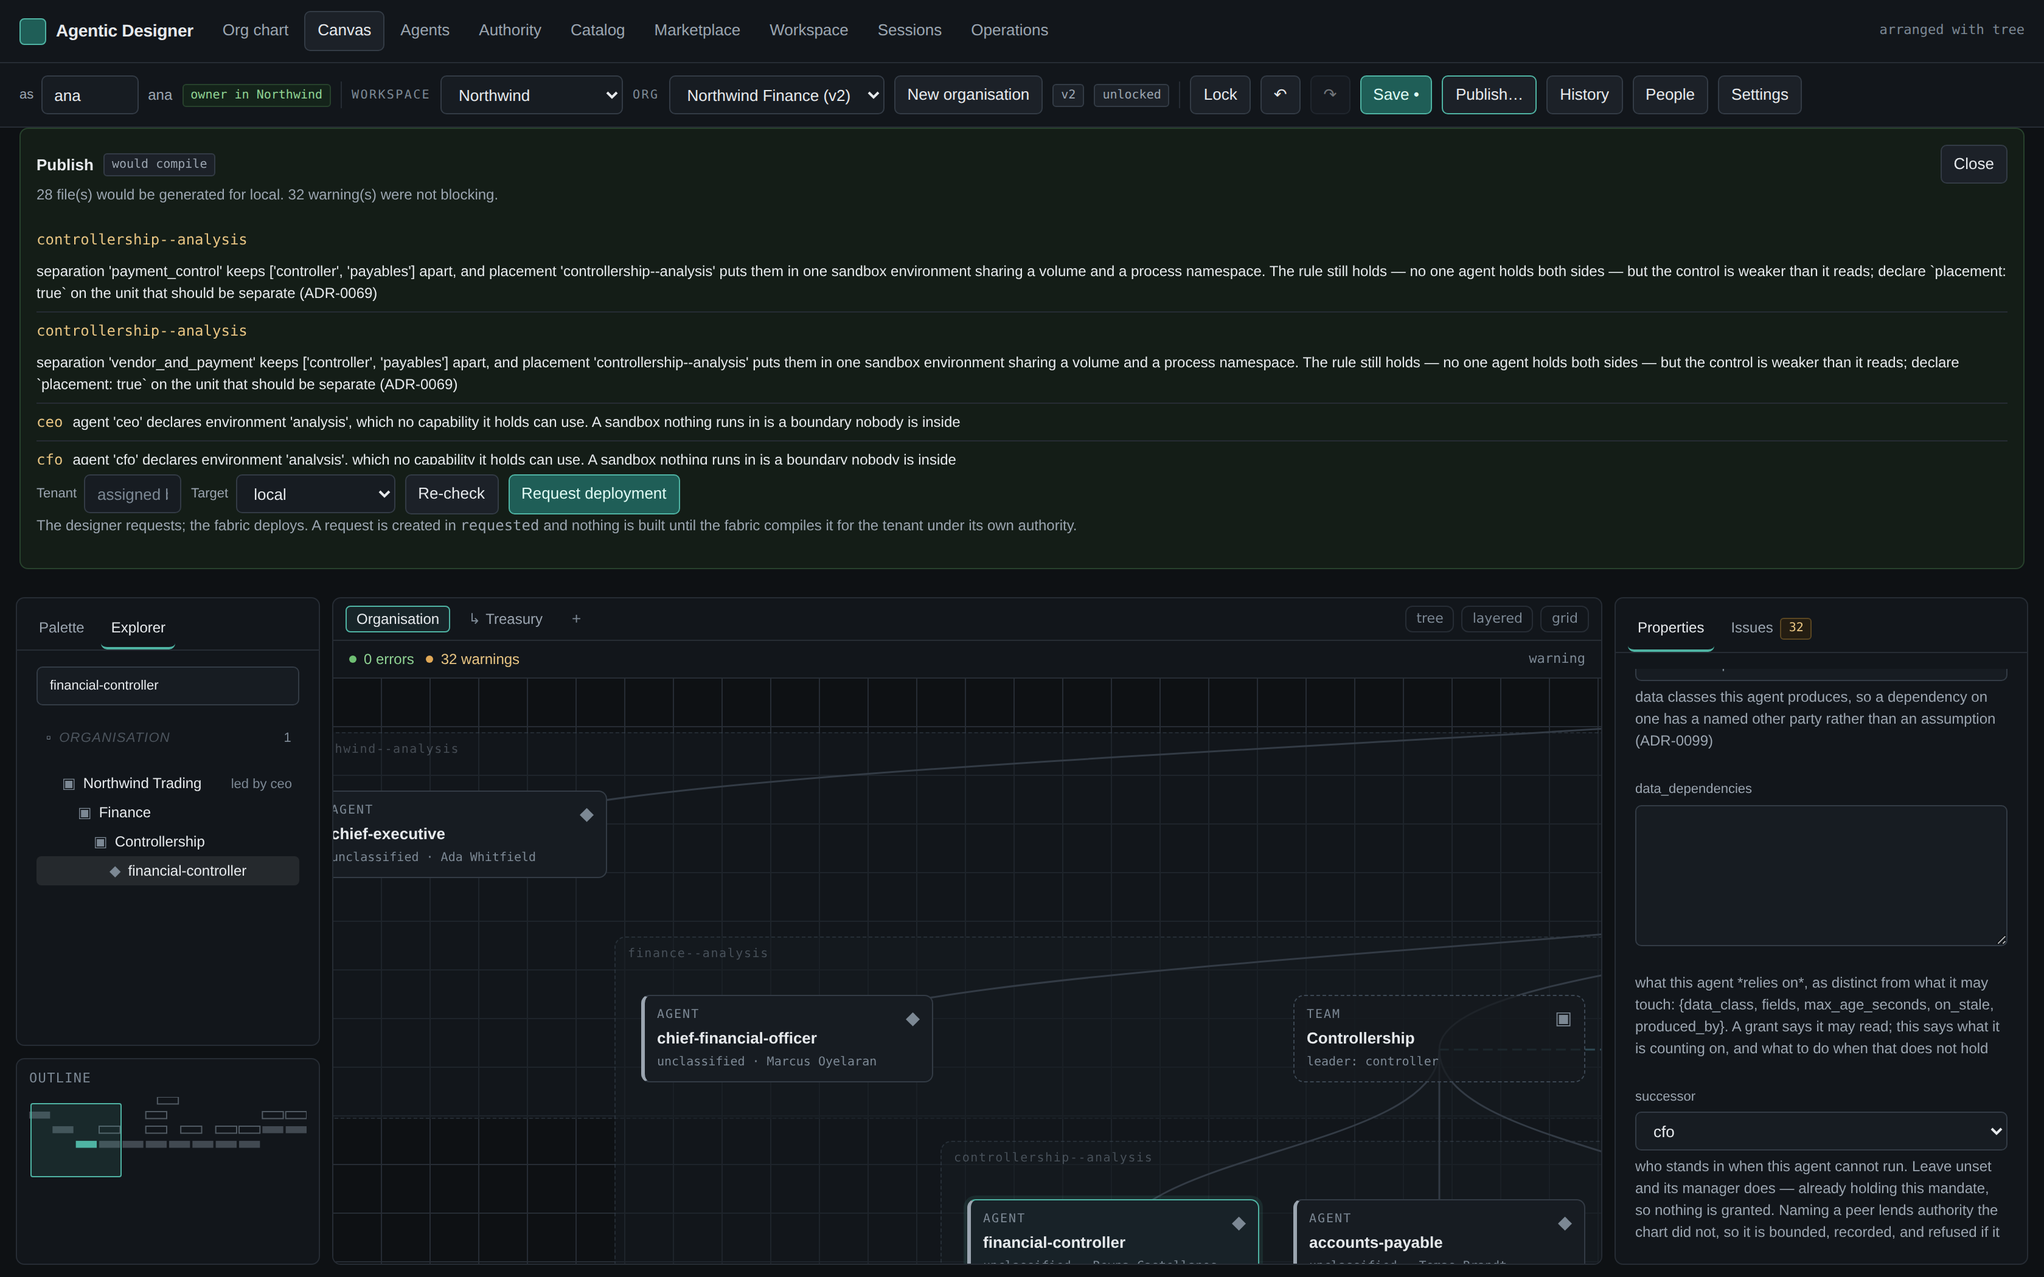
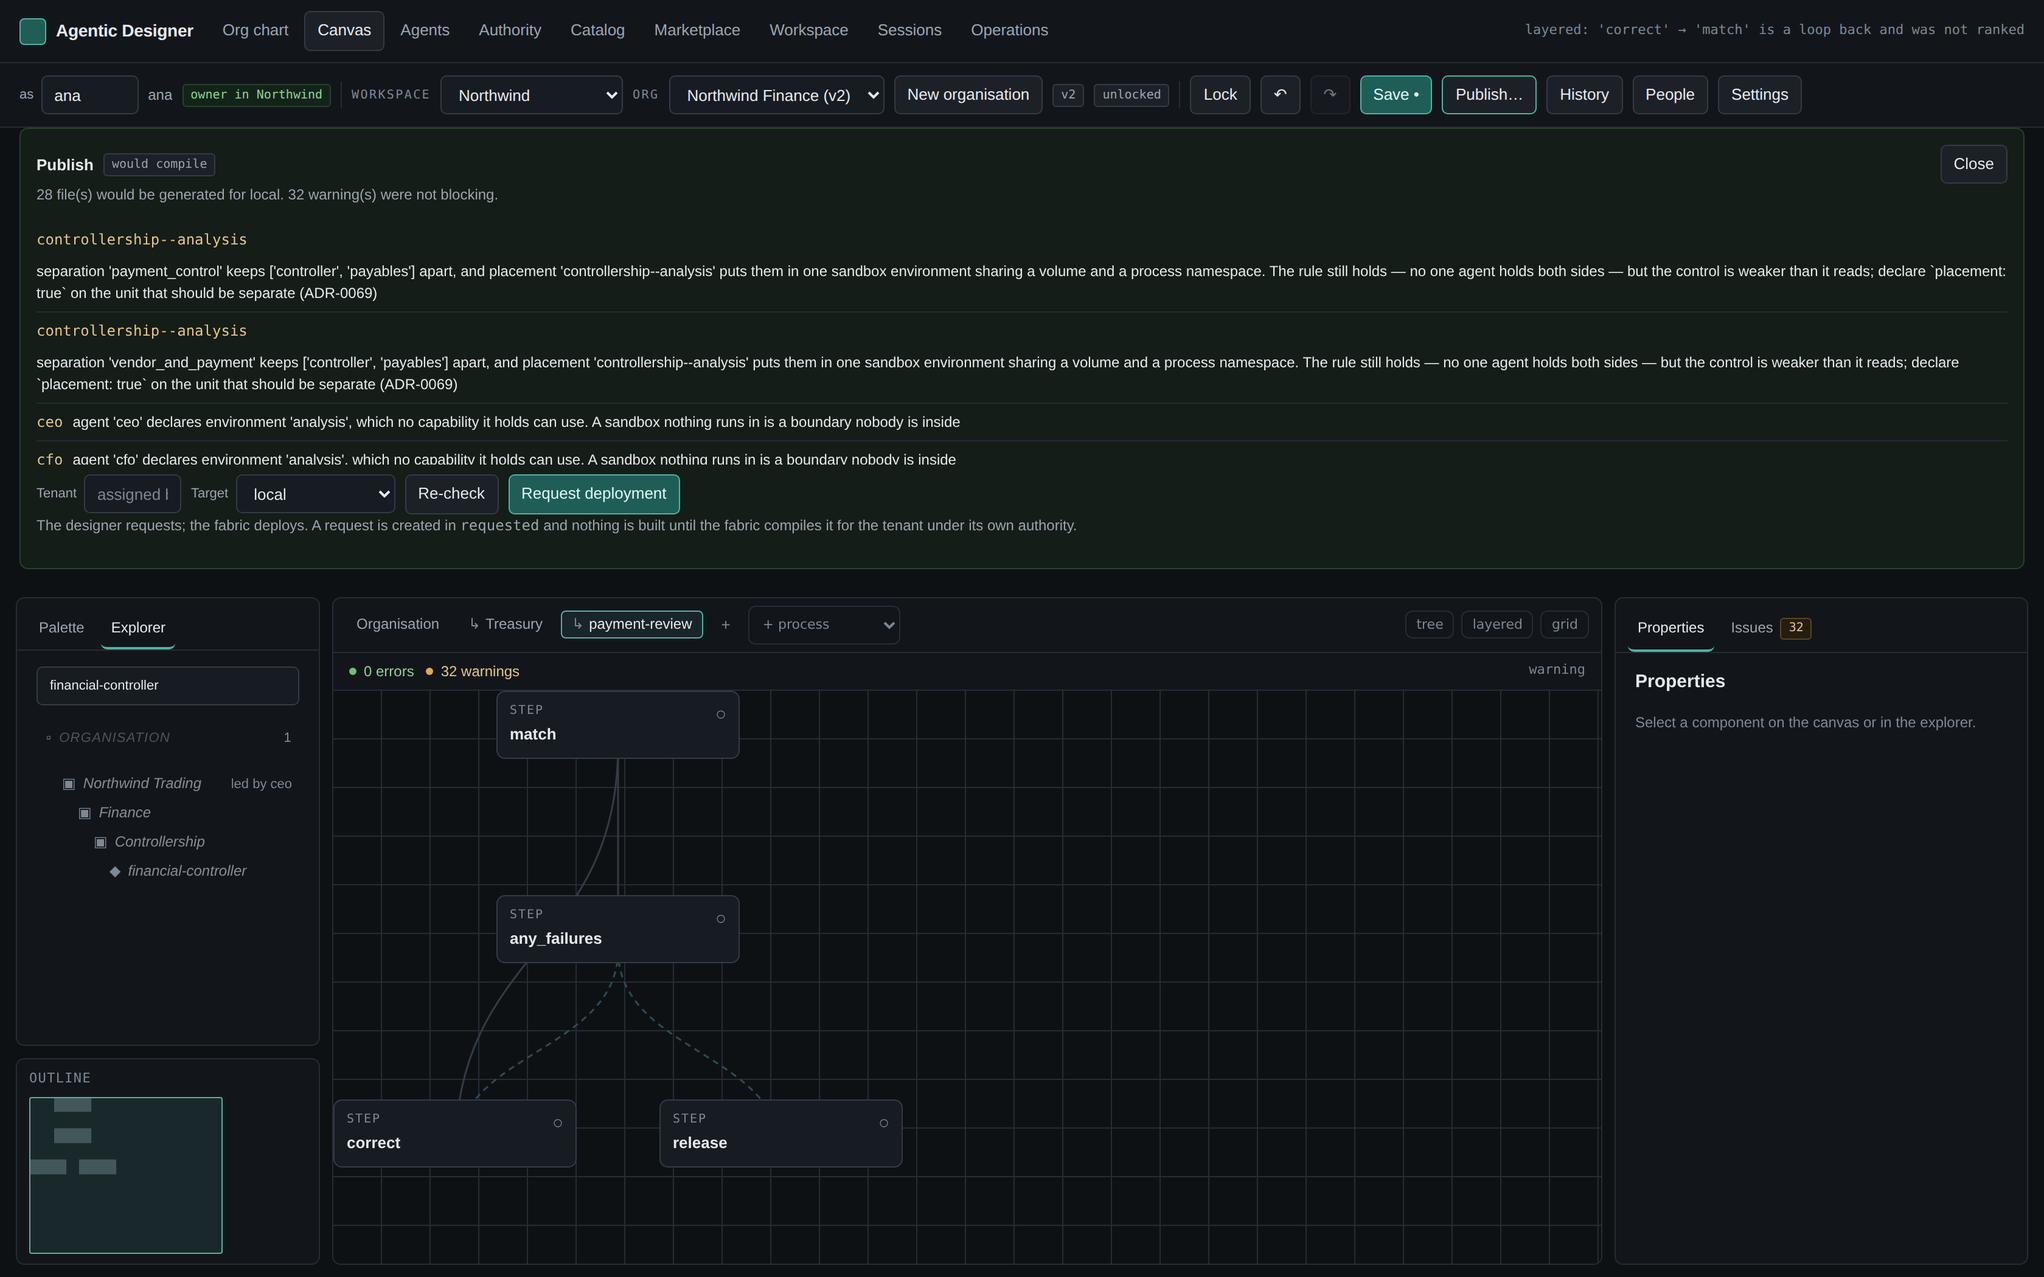
Draw a process on its own canvas, and render the views nobody had ever rendered
A process canvas now exists rather than just being modelled. A workflow's
steps are nodes, its edges are derived from the spec and never stored on the
diagram, a branch's arms are drawn dashed as the choice they are, and the loop
back is drawn as a loop. It is laid out by `layered`, and the status line says
what that did: "'correct' → 'match' is a loop back and was not ranked". The
"+ process" control makes one per workflow.

The other half of the question: had the rest of the designer been tested? The
API beneath every view has real coverage, and the bundle is checked
structurally -- which routes it calls, which model each view reads. But both
browser scripts only ever visited the canvas. Catalog, Marketplace, Workspace,
Sessions, Operations and Agents had never been rendered by anything. The first
render of this UI found four defects the whole suite had not; views never
rendered at all are exactly where that class hides.

Rendering them found four more.

A Python-style implicit string concatenation inside a JS object literal -- valid
Python, a syntax error in JavaScript. It took the whole designer down and
surfaced as a thirty-second browser timeout, which is an expensive way to learn
about a typo. The suite had plenty of assertions over these files as *text* and
nothing that parsed them; `node --check` over the bundle is now a test.

Two views whose ids named each other's labels: data-view="catalog" was
[…]

diff --git a/web/canvas.js b/web/canvas.js
@@ -194,6 +194,17 @@ function newDiagramId() {
   return `dia_${n}`;
 }
 
+/* A selection belongs to the diagram it was made on. Carrying it across meant
+   the Properties panel described a component that is not on the canvas in
+   front of you — which reads as "this is what you are looking at" and is not. */
+function clearSelectionOffDiagram() {
+  const open = diagram();
+  if (!canvas.selected) return;
+  if (open && open.nodes && open.nodes[canvas.selected.id]) return;
+  canvas.selected = null;
+  renderInspector();
+}
+
 function openDiagram(id) {
   const layout = canvas.record?.layout;
   if (!layout?.diagrams?.[id]) return;
@@ -211,6 +222,46 @@ function openDiagram(id) {
    This is the drill-down a tree view gives you and a single canvas cannot.
    The nodes are laid out rather than dropped one at a time, because a
    diagram you have to rebuild by hand is one nobody makes. */
+/* A process canvas: one workflow's steps, laid out as a flow.
+
+   The steps become nodes and the workflow's own edges are derived, so this
+   adds a picture without adding a fact — which is the split the diagram model
+   is built on. */
+function addProcessDiagram(workflowId) {
+  const layout = canvas.record?.layout;
+  const workflow = (spec()?.workflows || []).find((w) => w.id === workflowId);
+  if (!layout || !workflow) {
+    setStatus(`'${workflowId}' is not a workflow in this design`);
+    return null;
+  }
+  const id = newDiagramId();
+  const nodes = {};
+  (workflow.graph?.nodes || []).forEach((step, index) => {
+    if (!step.id) return;
+    nodes[step.id] = {
+      id: step.id, kind: "step", x: 60, y: 60 + index * 150,
+      width: 200, height: 80, collapsed: false, note: "",
+    };
+  });
+  layout.diagrams[id] = {
+    id, name: workflow.name || workflow.id, kind: "process",
+    root: workflow.id, nodes,
+    viewport: { x: 0, y: 0, zoom: 1 },
+  };
+  layout.active = id;
+  /* Same as opening one: the selection belonged to the diagram it was made
+     on, and carrying it here would describe a component that is not on this
+     canvas. */
+  clearSelectionOffDiagram();
+  markDirty(`added a process canvas for ${workflow.id}`);
+  renderCanvas();
+  /* Laid out by the product's own algorithm rather than the stack above:
+     a flow wants ranks, and the stack is only somewhere for the nodes to be
+     until the layout runs. */
+  arrangeDiagram("layered");
+  return id;
+}
+
 function addDiagram(root = "", name = "") {
   const layout = canvas.record?.layout;
   if (!layout) return null;
@@ -300,6 +351,21 @@ function renderDiagramBar() {
       disabled: readOnly ? "" : null,
       onclick: () => addDiagram(""),
     }, "+"),
+    /* A process gets its own canvas, because a workflow's graph is a
+       different thing from an organisation's containment and drawing them on
+       one canvas produces a picture nobody can predict (ADR-0100). */
+    ...((spec()?.workflows || []).length && !readOnly ? [(() => {
+      const pick = el("select", { class: "dia-add-process",
+                                  title: "a canvas for one workflow's process" },
+        el("option", { value: "" }, "+ process"),
+        ...(spec().workflows || []).map((w) =>
+          el("option", { value: w.id }, w.name || w.id)));
+      pick.addEventListener("change", () => {
+        if (pick.value) addProcessDiagram(pick.value);
+        pick.value = "";
+      });
+      return pick;
+    })()] : []),
     /* Arrange. The layout runs on the server, where it is a function from a
        graph to coordinates and can be asserted about; a layout that ran only
        here is the one part of this platform nothing would check (ADR-0100).
@@ -382,14 +448,18 @@ function processEdges(workflowId) {
   const graph = workflow?.graph || {};
   const edges = (graph.edges || [])
     .filter((e) => e.from && e.to && e.to !== "END")
-    .map((e) => ({ source: e.from, target: e.to }));
+    .map((e) => ({ source: e.from, target: e.to, kind: "flow" }));
+  /* A branch's arms are ways out too, and drawing them differently from a
+     plain edge is the point: one of them is taken, not all of them. */
   for (const node of graph.nodes || []) {
     if (node.kind !== "branch") continue;
     for (const c of node.cases || []) {
-      if (c.to && c.to !== "END") edges.push({ source: node.id, target: c.to });
+      if (c.to && c.to !== "END") {
+        edges.push({ source: node.id, target: c.to, kind: "branch_case" });
+      }
     }
     if (node.default && node.default !== "END") {
-      edges.push({ source: node.id, target: node.default });
+      edges.push({ source: node.id, target: node.default, kind: "branch_case" });
     }
   }
   return edges;
@@ -403,6 +473,14 @@ function layoutNodes() {
 function findComponent(kind, id) {
   const s = spec();
   if (!s) return null;
+  /* A step belongs to the workflow the open process canvas draws, not to the
+     organisation. It is looked up there so the inspector edits the step
+     itself rather than showing an empty form (ADR-0100). */
+  if (kind === "step") {
+    const open = diagram();
+    const workflow = (s.workflows || []).find((w) => w.id === open?.root);
+    return (workflow?.graph?.nodes || []).find((n) => n.id === id) || null;
+  }
   if (kind === "team") return allTeams().find((t) => t.id === id) || null;
   if (kind === "agent") return allAgents().find((a) => a.agent.id === id)?.agent || null;
   if (kind === "subagent") {
@@ -591,7 +669,29 @@ function paletteKinds() {
   return out;
 }
 
+/* A step is part of a workflow, not a component of the design, so it is not in
+   the palette — you do not drag one onto an organisation. It still needs
+   fields, or selecting one on a process canvas would open an empty form. */
+const STEP_SPEC = {
+  kind: "step", label: "Step", icon: "\u25cb",
+  fields: [
+    { name: "id", type: "string", required: true },
+    { name: "kind", type: "enum",
+      options: ["tool", "agent", "workflow", "branch", "transform", "human"],
+      help: "what this step does. A branch is the only one that may have "
+            + "several ways out, because it is the only one that chooses" },
+    { name: "tool", type: "string" },
+    { name: "agent", type: "string" },
+    { name: "workflow", type: "string" },
+    { name: "expr", type: "string",
+      help: "for a transform: an expression over the workflow's state" },
+    { name: "output", type: "string",
+      help: "the state key this step's result is written to" },
+  ],
+};
+
 function kindSpec(kind) {
+  if (kind === "step") return STEP_SPEC;
   return paletteKinds().find((k) => k.kind === kind)
     || { kind, label: kind, fields: [] };
 }
@@ -1222,6 +1322,8 @@ function renderEdges() {
 
 const EDGE_STYLES = {
   member_of: { stroke: "--edge-report" },
+  flow: { stroke: "--edge-report" },
+  branch_case: { stroke: "--edge-peer", dash: "5 4" },
   reports_to: { stroke: "--edge-report" },
   mission_peer: { stroke: "--edge-peer", dash: "5 4" },
   peer: { stroke: "--edge-peer", dash: "5 4" },
@@ -1364,6 +1466,16 @@ function derivedEdges() {
   /* Edges come from the spec, not from the layout: the picture always matches
      what would compile. */
   const out = [];
+  /* A process canvas draws one workflow's graph, and its edges are that
+     workflow's own — read here, never stored on the diagram, which is the one
+     rule the diagram model has (ADR-0100). */
+  const open = diagram();
+  if (open?.kind === "process") {
+    for (const edge of processEdges(open.root)) {
+      out.push({ source: edge.source, target: edge.target, kind: edge.kind });
+    }
+    return out;
+  }
   walkTeams(spec()?.organization, (team) => {
     (team.members || []).forEach((m) =>
       out.push({ source: team.id, target: m.id, kind: "member_of" }));

diff --git a/web/app.js b/web/app.js
@@ -1485,6 +1485,17 @@ $("#pc-add").addEventListener("click", () => openEntryForm(null));
 /* ---------------------------------------------------------- sessions */
 async function loadSessions() {
   const sessions = await api("/sessions?limit=100");
+  /* An empty list with nothing said reads as broken. This view had none, and
+     rendering it for the first time is what showed that: a column of nothing
+     under a heading tells a reader the page failed, not that no agent has
+     run yet. */
+  if (!sessions.length) {
+    $("#sessions").replaceChildren(
+      el("p", { class: "muted" },
+         "No runs yet. A session appears here the moment an agent of a "
+         + "published design is asked to do something."));
+    return;
+  }
   $("#sessions").replaceChildren(...sessions.map((s) =>
     el("div", {},
       el("span", { class: "grow", onclick: () => loadTrace(s.id), style: "cursor:pointer" },
@@ -1523,6 +1534,11 @@ async function loadOps() {
       el("button", {
         onclick: async () => { await api(`/ops/alerts/${a.id}/ack`, { method: "POST" }); loadOps(); },
       }, "Ack"))) : [el("div", { class: "empty" }, "No open alerts.")]));
+  if (!Object.keys(m.per_agent || {}).length) {
+    $("#peragent").replaceChildren(
+      el("p", { class: "muted" },
+         "Nothing has run. Per-agent usage fills in as sessions complete."));
+  } else
   $("#peragent").replaceChildren(...Object.entries(m.per_agent).map(([id, v]) =>
     el("div", {}, el("span", { class: "grow" }, id),
       el("span", { class: "badge" }, `${v.sessions} sessions`),

diff --git a/web/index.html b/web/index.html
@@ -23,8 +23,8 @@
     <button data-view="canvas">Canvas</button>
     <button data-view="designer">Agents</button>
     <button data-view="authority">Authority</button>
-    <button data-view="platform">Catalog</button>
-    <button data-view="catalog">Marketplace</button>
+    <button data-view="catalog">Catalog</button>
+    <button data-view="marketplace">Marketplace</button>
     <button data-view="workspace">Workspace</button>
     <button data-view="sessions">Sessions</button>
     <button data-view="ops">Operations</button>
@@ -371,7 +371,7 @@
     </div>
   </section>
 
-  <section id="view-platform" class="view">
+  <section id="view-catalog" class="view">
     <div class="panel">
       <h2>Platform catalog</h2>
       <p class="hint">
@@ -406,7 +406,7 @@
   </section>
 
   <!-- CATALOG -->
-  <section id="view-catalog" class="view">
+  <section id="view-marketplace" class="view">
     <div class="panel">
       <h2>Marketplace</h2>
       <div class="toolbar">

diff --git a/web/styles.css b/web/styles.css
@@ -1082,3 +1082,11 @@ textarea.json.invalid { border-color: var(--clay); }
   padding: .3rem .5rem; cursor: pointer;
 }
 .dia-arrange:hover { color: var(--ink); border-color: var(--line-strong); }
+
+/* A process canvas's steps read as steps, not as org boxes (ADR-0100). */
+.dia-add-process {
+  font: 500 11px/1 var(--sans, ui-sans-serif, system-ui);
+  color: var(--ink-dim); background: transparent;
+  border: 1px solid var(--line); border-radius: 6px; padding: .25rem .4rem;
+}
+[data-kind="step"] .n-kind { color: var(--accent); }

diff --git a/tests/test_designer_ui.py b/tests/test_designer_ui.py
@@ -369,3 +369,55 @@ def test_a_person_reference_survives_the_agent_form(tmp_path):
     assert out.returncode == 0, out.stdout + out.stderr
     assert "LOSS" not in out.stdout
     assert "Marcus Oyelaran" in out.stdout, "a reference must resolve to a name"
+
+
+def test_the_browser_bundle_parses():
+    """A syntax error in the bundle breaks every view at once.
+
+    The suite has a lot of structural assertions over these files as *text* —
+    which routes they call, which model they read — and nothing that parsed
+    them. A Python-style implicit string concatenation inside an object
+    literal is valid Python and a syntax error in JavaScript; it took the
+    whole designer down and surfaced as a thirty-second browser timeout in a
+    screenshot run, which is an expensive way to learn about a typo.
+    """
+    import shutil
+    import subprocess
+
+    node = shutil.which("node")
+    if node is None:
+        pytest.skip("no node on this machine to parse the bundle with")
+    for name in ("app.js", "canvas.js", "command/app.js"):
+        path = ROOT / "web" / name
+        result = subprocess.run([node, "--check", str(path)],
+                                capture_output=True, text=True)
+        assert result.returncode == 0, f"{name} does not parse:\n{result.stderr}"
+
+
+def test_a_views_id_matches_the_label_people_read(index_html):
+    """`data-view="catalog"` was labelled Marketplace and `data-view="platform"`
+    was labelled Catalog.
+
+    Two views whose ids named each other's labels. It survived because nothing
+    compared them, and it cost a wrong screenshot within minutes of the first
+    person touching that part of the file. An id is what a test, a script and
+    the next reader address a view by, so it has to say what the view is.
+    """
+    import re
+
+    pairs = re.findall(r'data-view="([a-z-]+)"[^>]*>([^<]+)<', index_html)
+    assert pairs, "no view buttons found"
+    #: Ids that legitimately differ from their label, and why.
+    ALLOWED = {
+        "org": "org chart",
+        "designer": "agents",     # the agent-by-agent form view
+        "ops": "operations",
+    }
+    for view_id, label in pairs:
+        slug = label.strip().lower()
+        if ALLOWED.get(view_id) == slug:
+            continue
+        assert view_id == slug.replace(" ", "-"), (
+            f'view "{view_id}" is labelled "{label.strip()}"; an id that names '
+            "another view's label is a trap"
+        )

diff --git a/scripts/screenshots.py b/scripts/screenshots.py
@@ -282,7 +282,35 @@ async def main():
         print(f"  continuity: successor = {picked or '(its manager)'}")
         await shot(page, "designer-continuity", f"successor={picked}")
 
-        # 6. The publish path, showing a real preflight verdict.
+        # 6. A process canvas: the workflow's steps as nodes, its own edges
+        #    derived from the spec, laid out by `layered`.
+        await page.click('#tabs button[data-view="canvas"]')
+        await page.wait_for_timeout(500)
+        await page.select_option(".dia-add-process", "payment_review")
+        await page.wait_for_timeout(1400)
+        steps = await page.locator('#canvas-nodes [data-kind="step"]').count()
+        wires = await page.locator("#canvas-edges > path").count()
+        print(f"  process canvas: {steps} steps, {wires} edges")
+        assert steps, "the process canvas drew no steps"
+        await shot(page, "designer-process-canvas", f"{steps} steps, {wires} edges")
+
+        # 7. The views a browser had never rendered. Rendering the UI for the
+        #    first time found four defects the whole suite did not; these five
+        #    had never been rendered at all, which is exactly where the same
+        #    class of defect hides.
+        for view, name in (("designer", "designer-agents"),
+                           ("catalog", "designer-catalog"),
+                           ("marketplace", "designer-marketplace"),
+                           ("workspace", "designer-workspace"),
+                           ("sessions", "designer-sessions"),
+                           ("ops", "designer-operations")):
+            await page.click(f'#tabs button[data-view="{view}"]')
+            await page.wait_for_timeout(1200)
+            await shot(page, name)
+
+        # 8. The publish path, showing a real preflight verdict.
+        await page.click('#tabs button[data-view="canvas"]')
+        await page.wait_for_timeout(500)
         await page.click("#btn-publish")
         await page.wait_for_timeout(2500)
         print("  publish verdict:",

diff --git a/README.md b/README.md
@@ -202,8 +202,18 @@ apart from association (ADR-0081), and live validation.*
 
 | | |
 |---|---|
-| [![Publish](docs/images/designer-publish.png)](docs/images/designer-publish.png) | |
-| **Publish** — validate, compile, request. The verdict names the stage, and the refusal is the deliverable. | |
+| [![A process canvas](docs/images/designer-process-canvas.png)](docs/images/designer-process-canvas.png) | [![Publish](docs/images/designer-publish.png)](docs/images/designer-publish.png) |
+| **A process canvas** — a second kind of canvas, for a workflow's graph. Its steps are nodes, its edges are the workflow's own (read from the spec, never stored on the diagram), a branch's arms are drawn as the choice they are, and the loop back is drawn as a loop. Laid out by `layered`, which ranks the flow and excludes a back edge from ranking so a cycle cannot draw a process that runs upward (ADR-0100). | **Publish** — validate, compile, request. The verdict names the stage, and the refusal is the deliverable. |
+
+The remaining views — [Agents](docs/images/designer-agents.png),
+[Catalog](docs/images/designer-catalog.png),
+[Marketplace](docs/images/designer-marketplace.png),
+[Workspace](docs/images/designer-workspace.png),
+[Sessions](docs/images/designer-sessions.png) and
+[Operations](docs/images/designer-operations.png) — are captured too. They had
+never been rendered in a browser before: the API beneath them was well tested
+and the bundle was checked structurally, but nothing had ever *drawn* them,
+which is exactly where the first render of any UI finds things.
 
 There is also the [org chart](docs/images/designer-org-chart.png).
 
